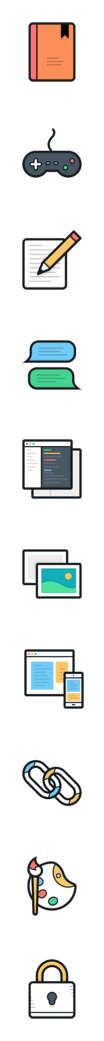
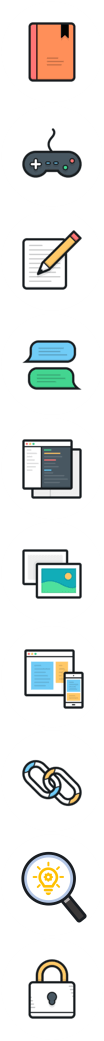
[ Style ] Customize ico set

Changed region(s): [[0.2019, 0.7992, 0.8365, 0.8915]]

diff --git a/style/css/style.min.css b/style/css/style.min.css
@@ -520,7 +520,7 @@ textarea:-ms-input-placeholder {
     background-position: 0 -280px !important
 }
 
-.bg-ico-design {
+.bg-ico-idea {
     background-position: 0 -320px !important
 }
 
